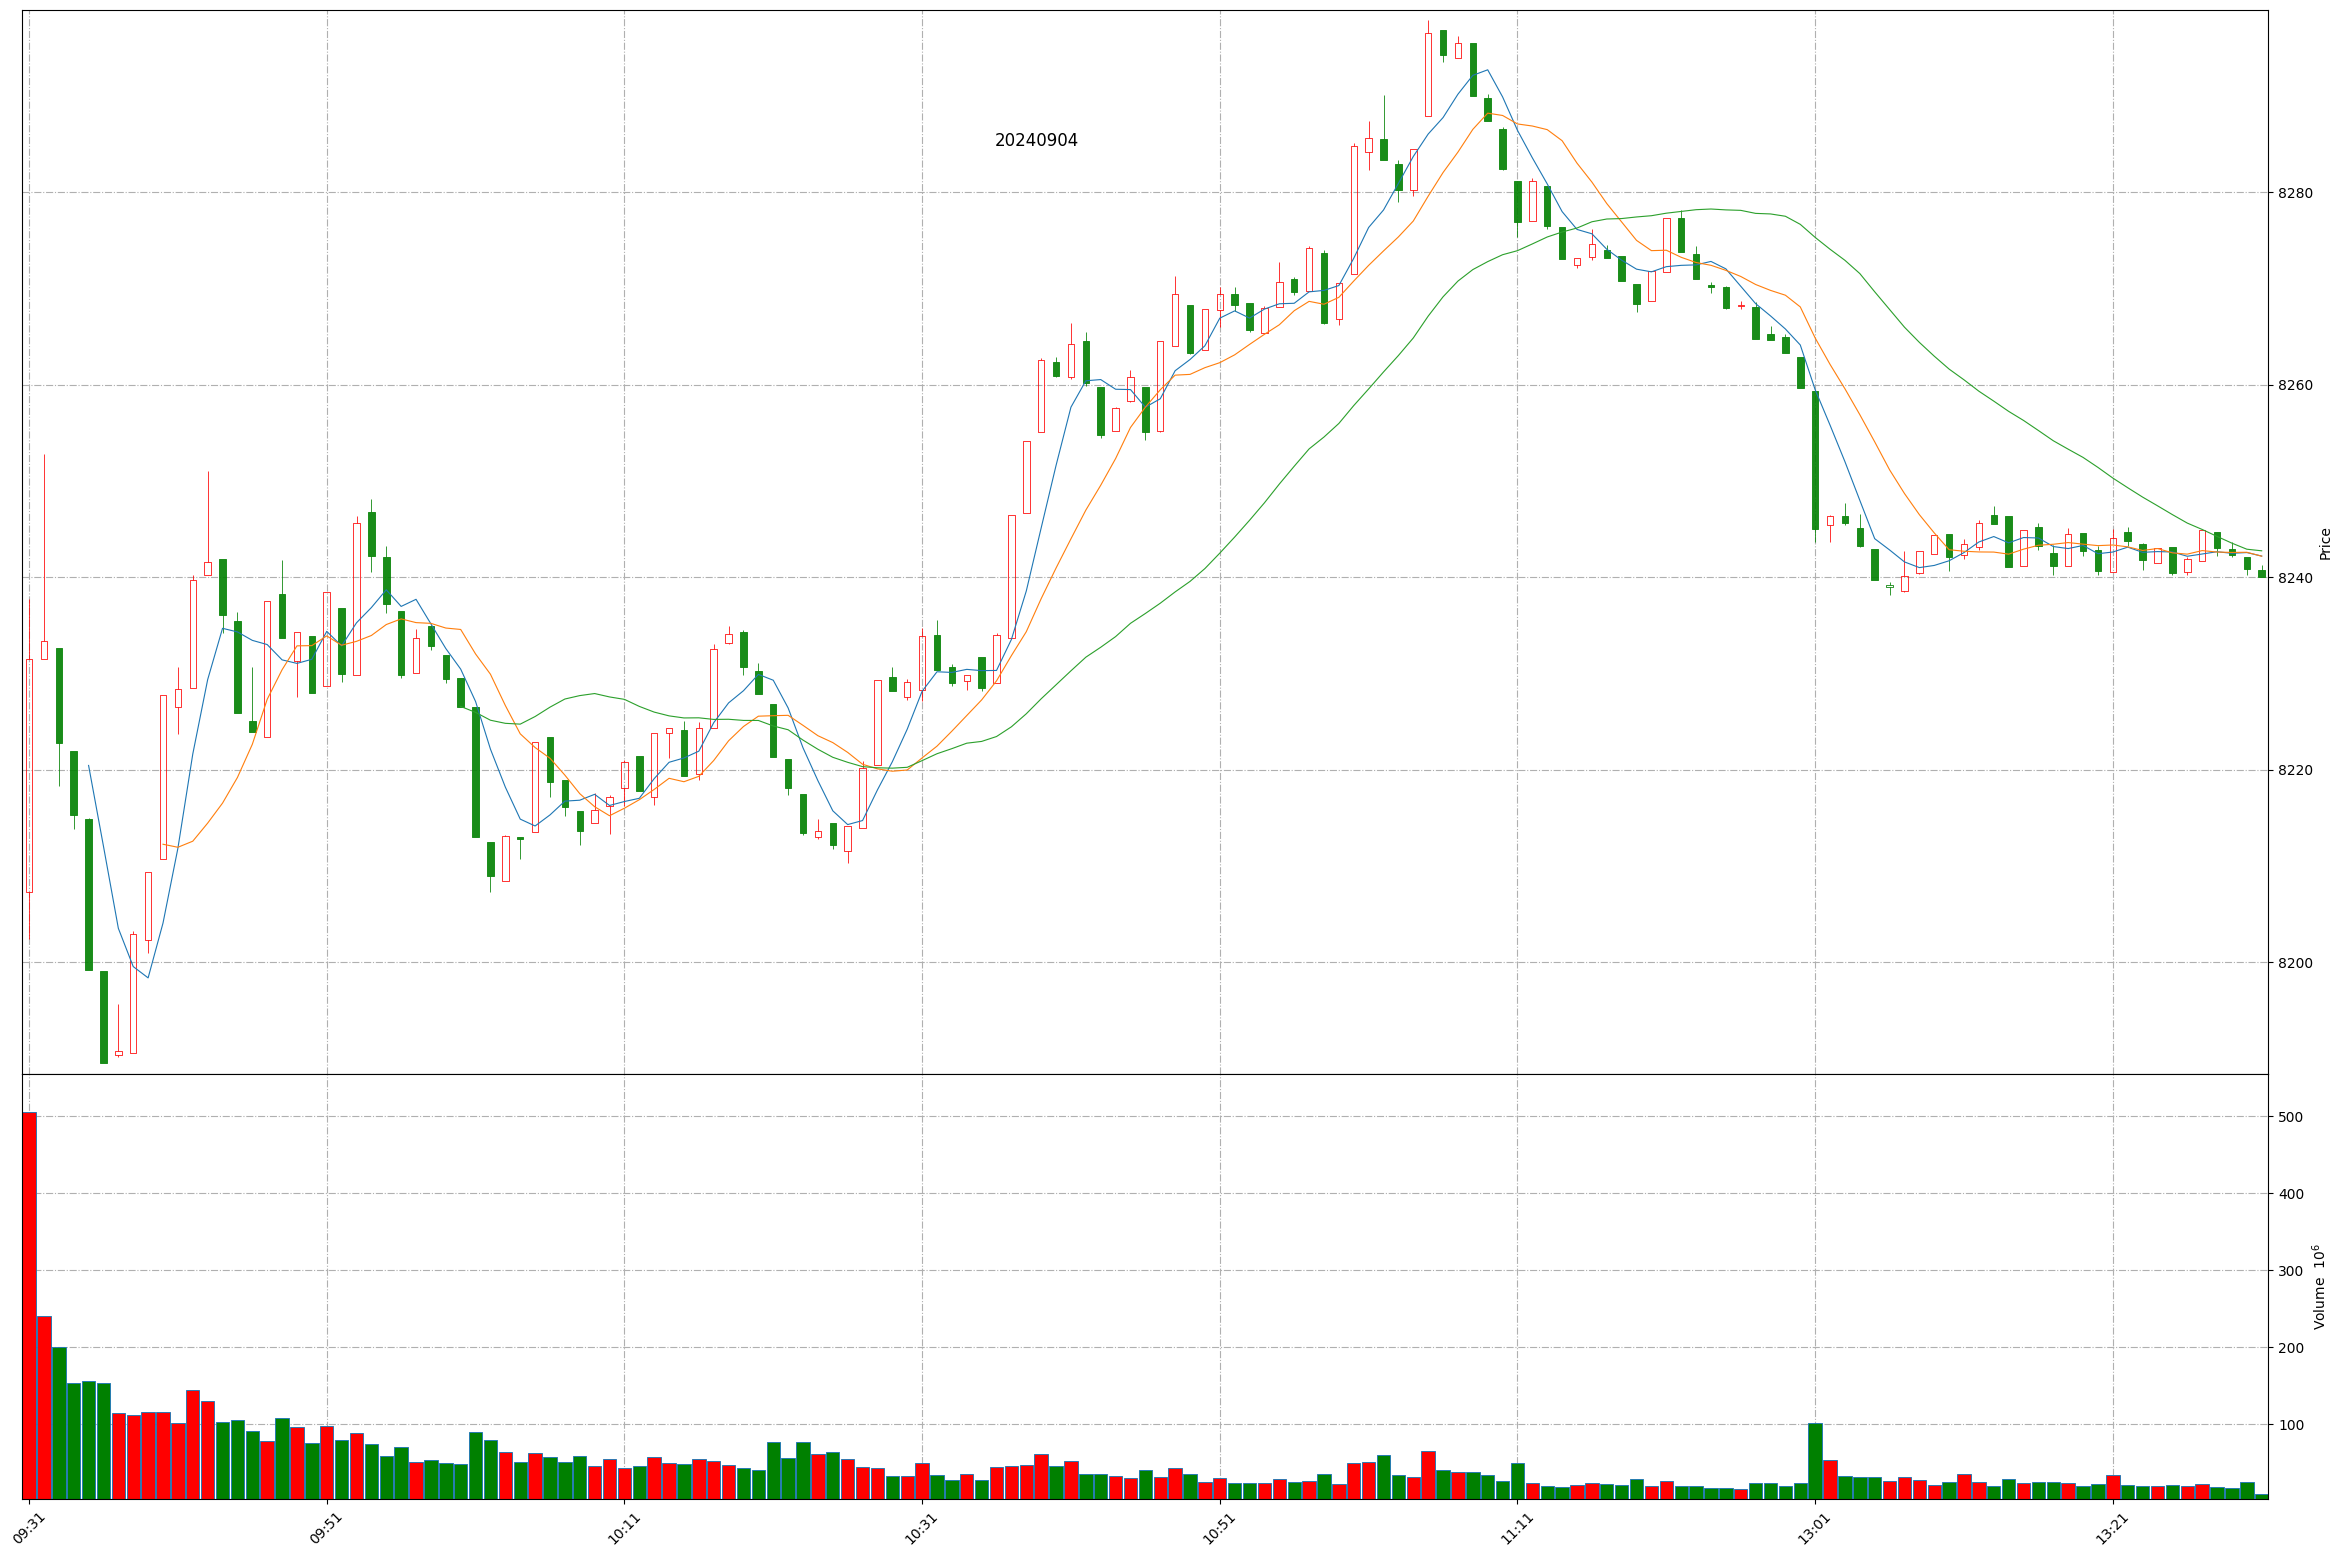
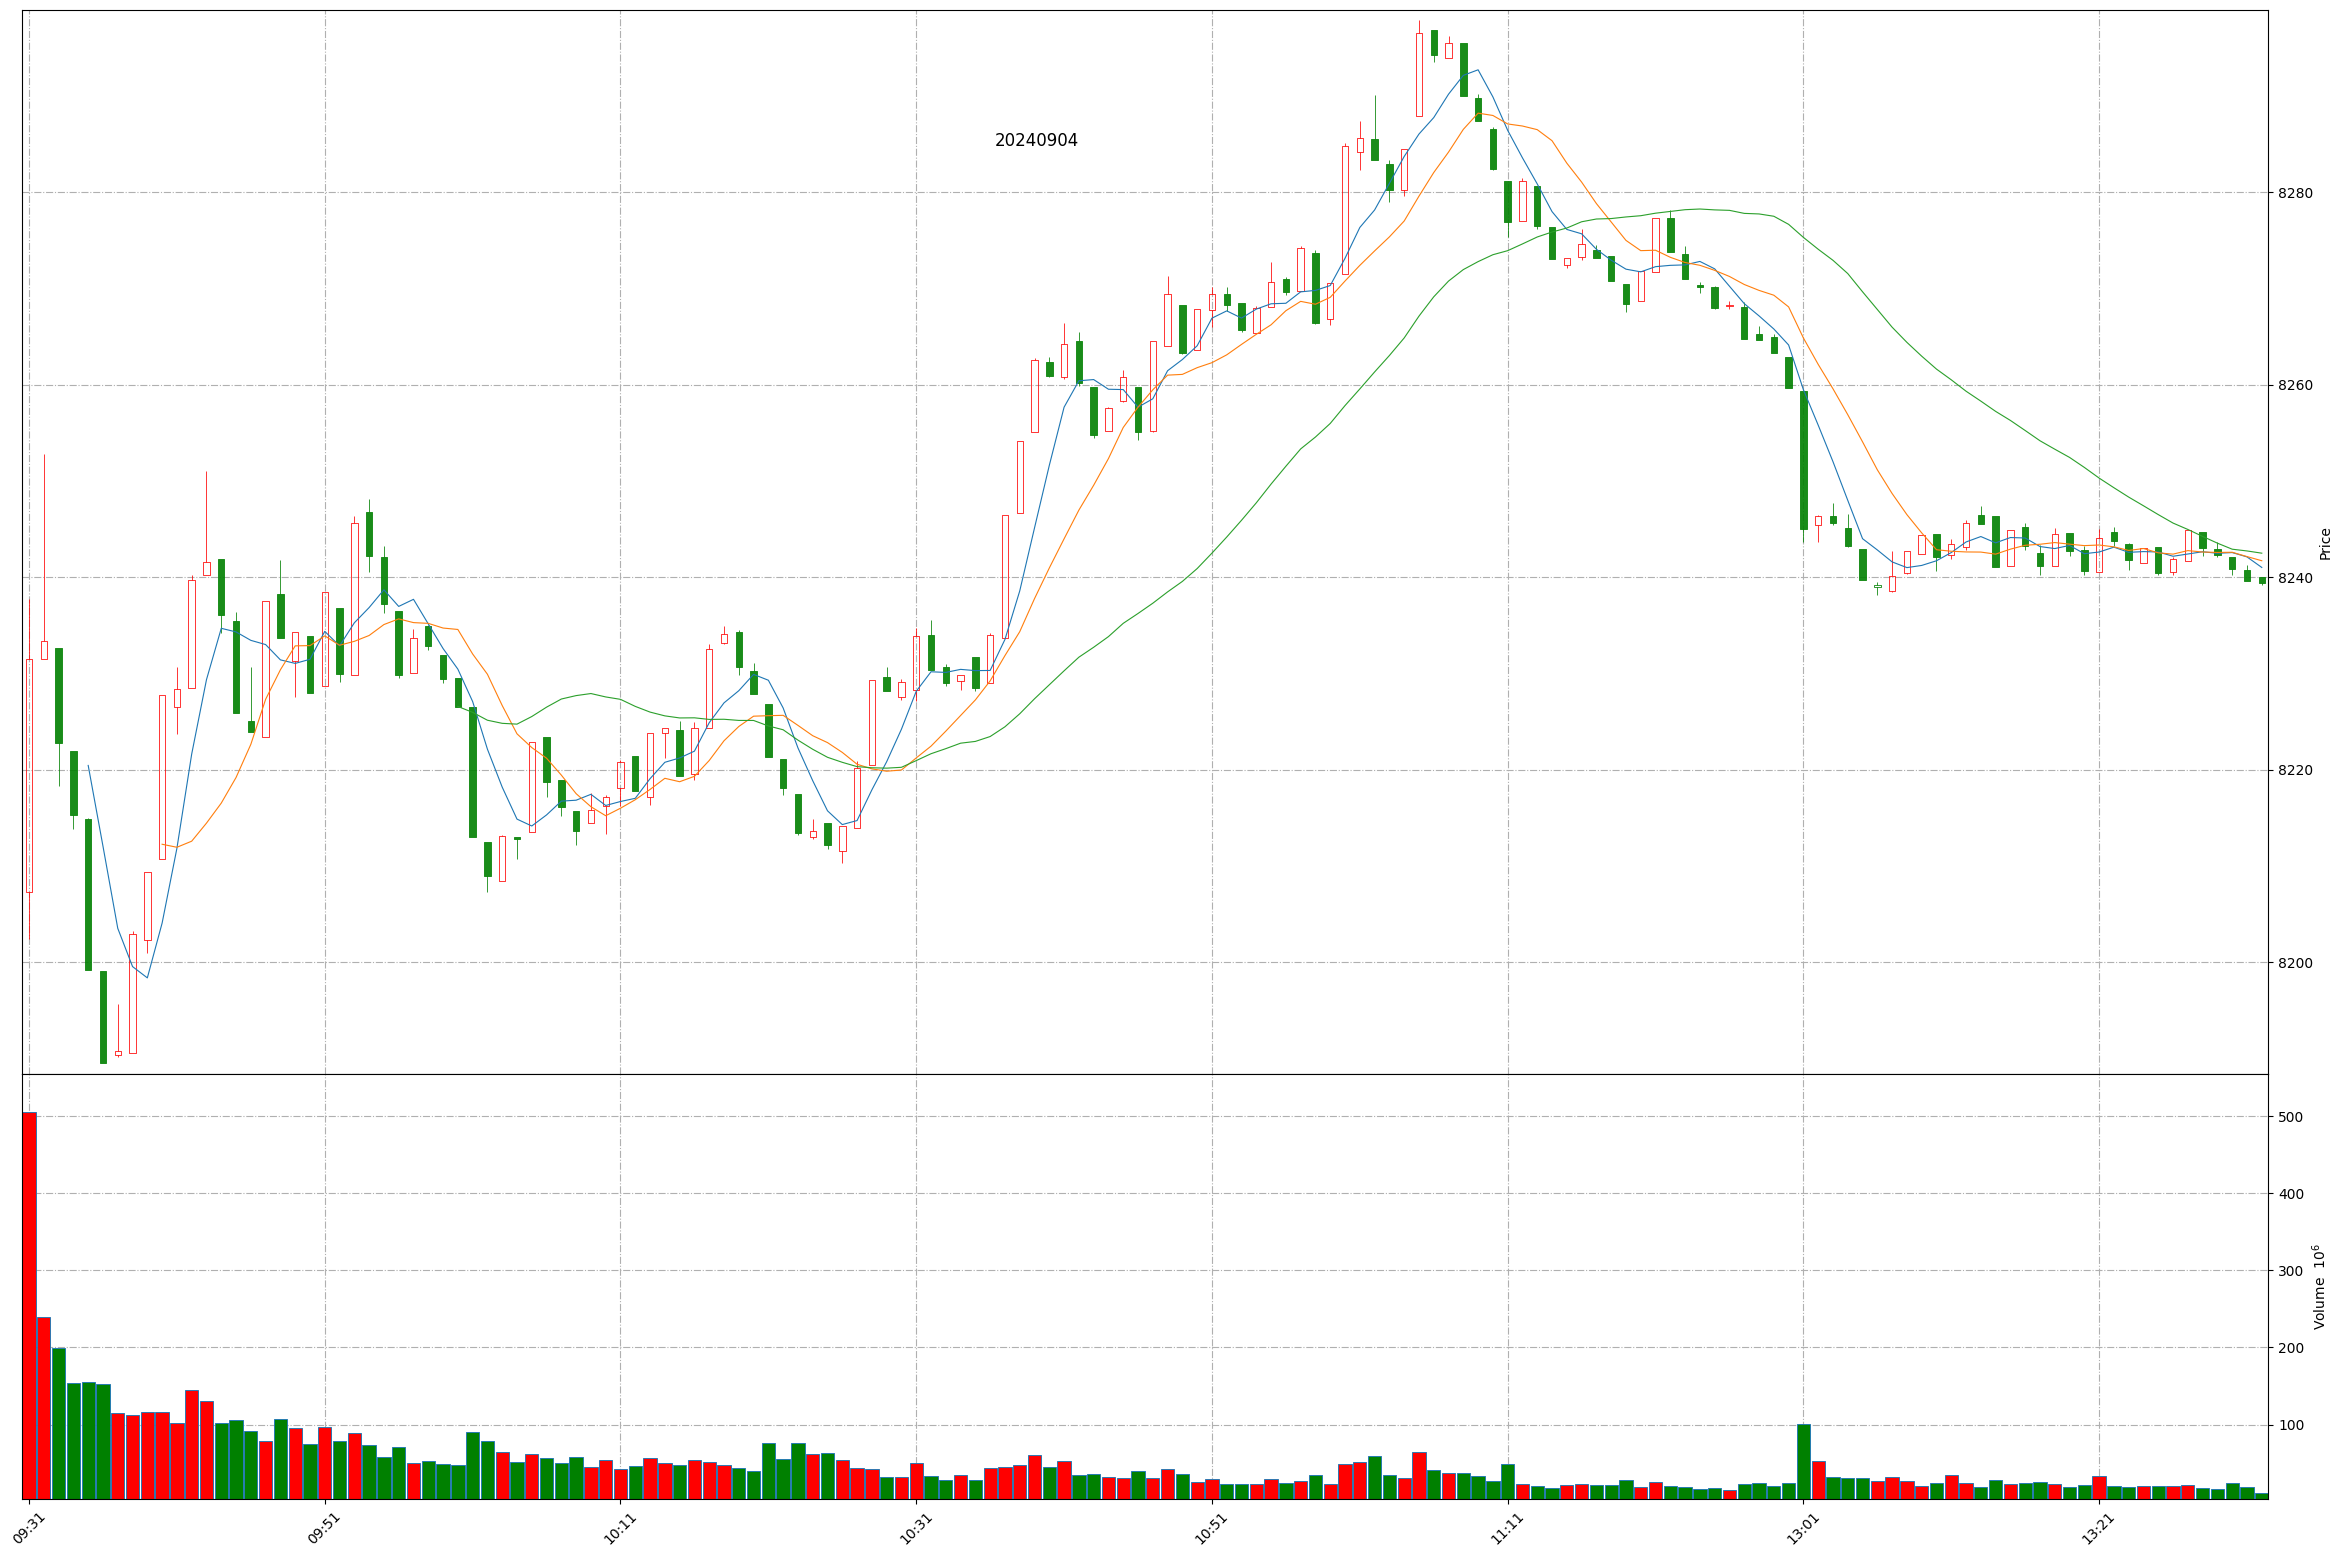
Github action update at 2024-09-04 13:31:36.

diff --git a/README.md b/README.md
@@ -1,11 +1,11 @@
 
 # Daily-A-share-market-quotes 每日 A 股指数（5min 更新）- 20240904
 
-### 上证指数 20240904 13:30
+### 上证指数 20240904 13:31
 ![](./fig/2024/9/20240904-sh000001.png)
 
-### 深证成指 20240904 13:30
+### 深证成指 20240904 13:31
 ![](./fig/2024/9/20240904-sz399001.png)
 
-### 北证50 20240904 13:30
+### 北证50 20240904 13:31
 ![](./fig/2024/9/20240904-bj899050.png)
